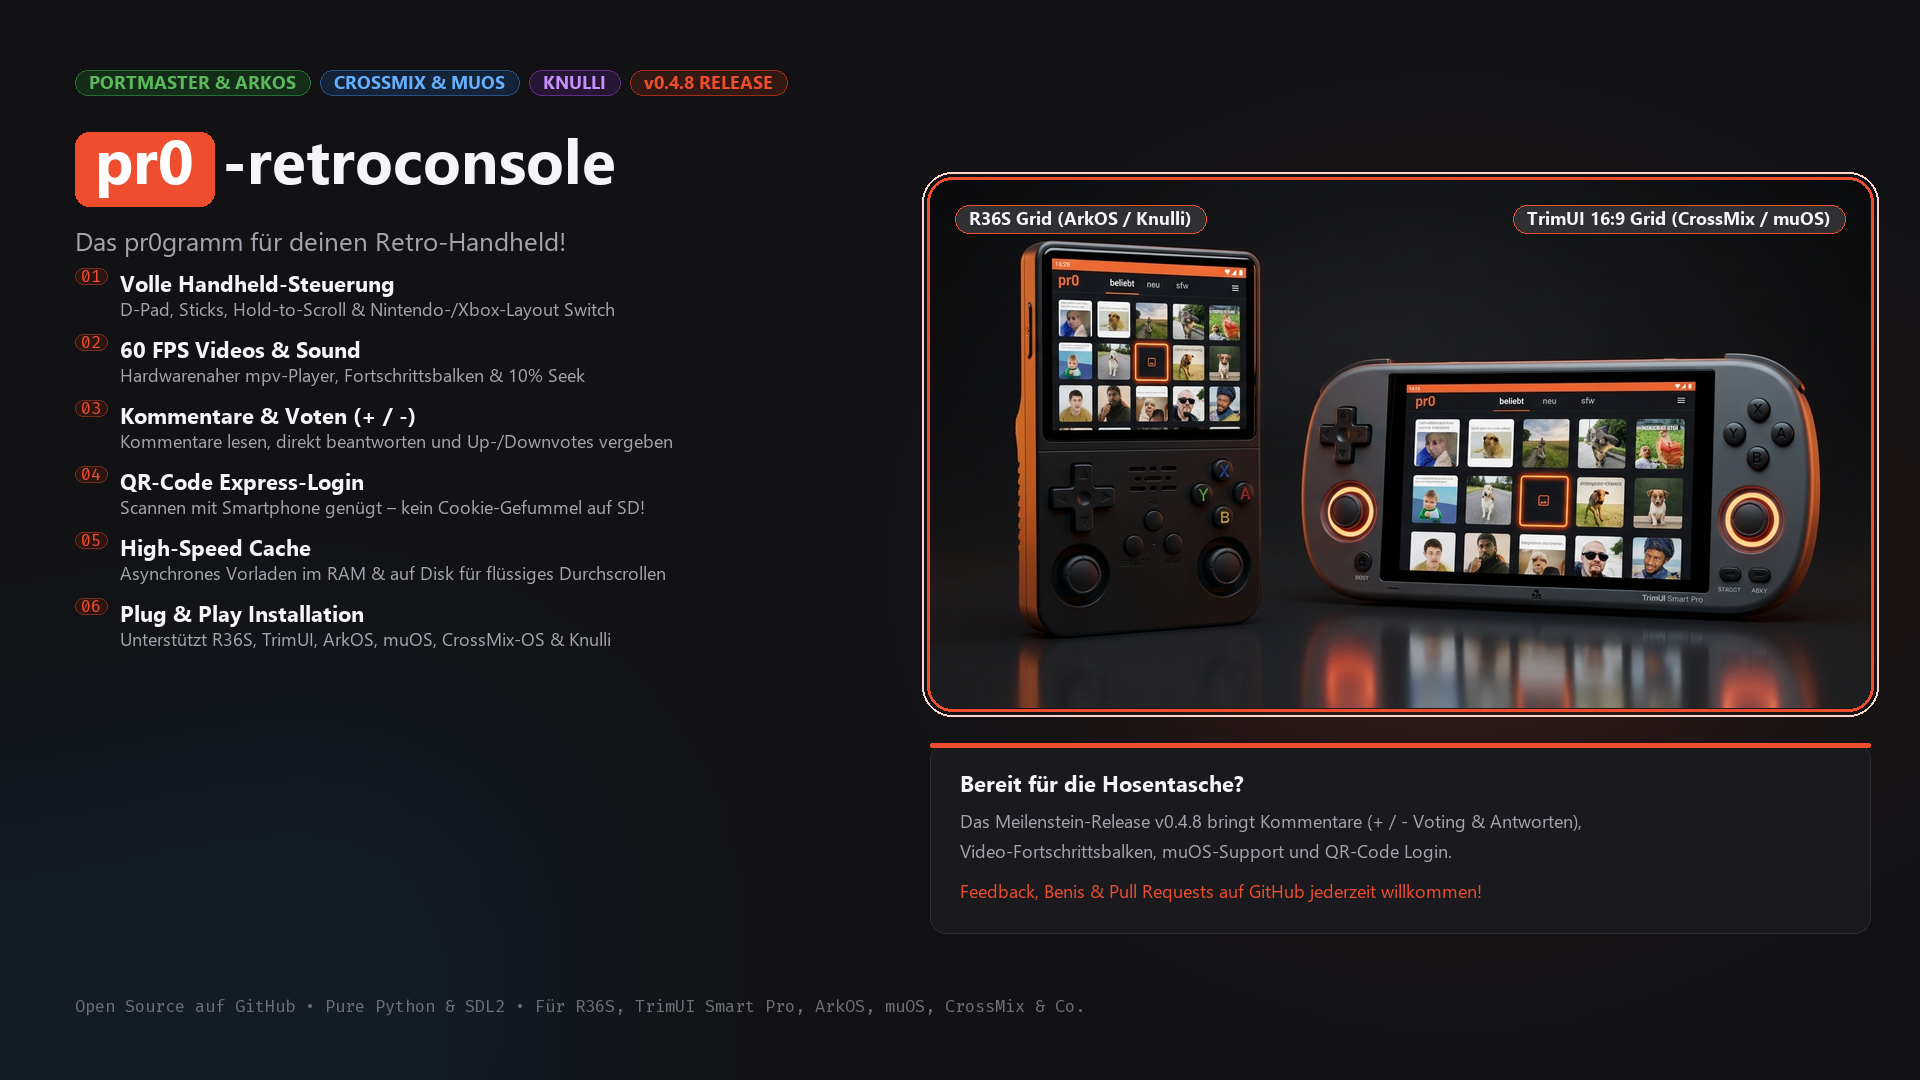
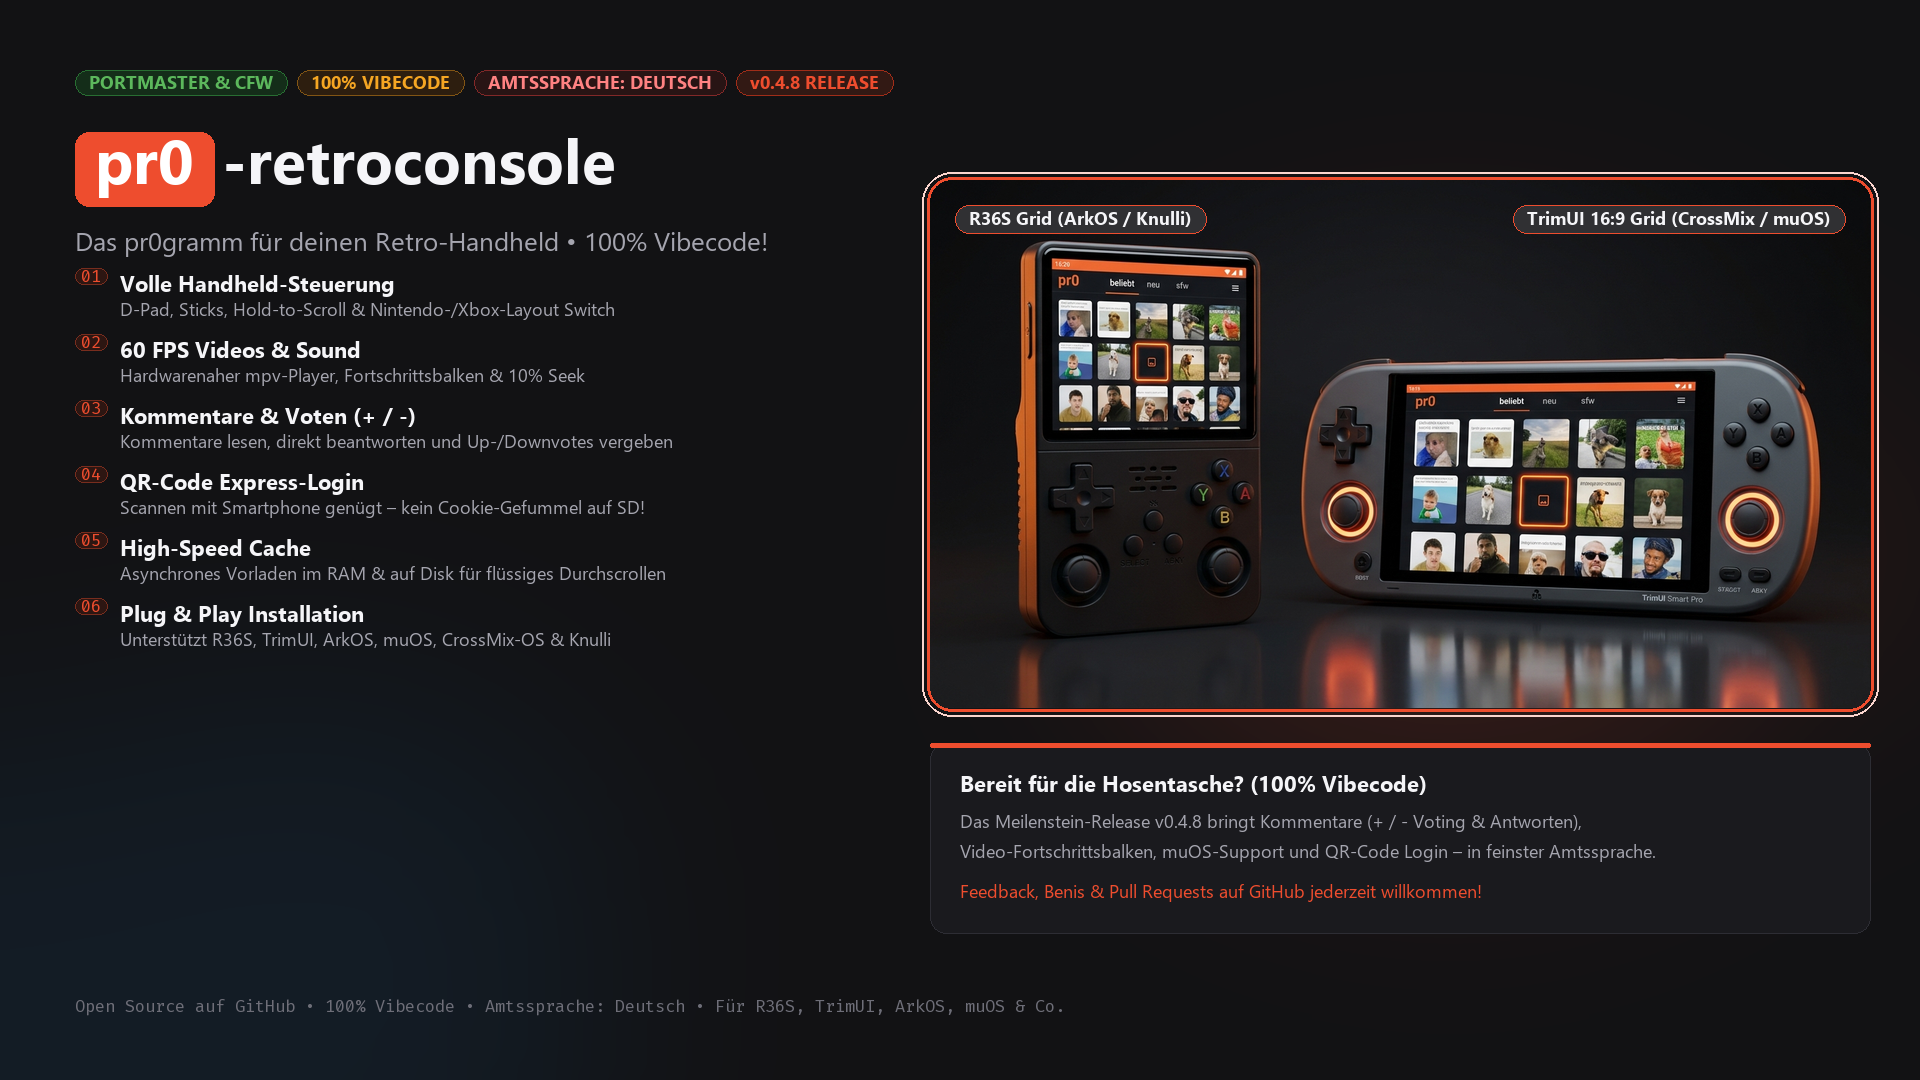
Highlight German as official language (Amtssprache) and 100% Vibecode across all project files and renderings

diff --git a/create_presentation_image.py b/create_presentation_image.py
@@ -138,12 +138,13 @@ def create_poster():
     # -------------------------------------------------------------
     curr_y = 50
 
-    # Badges (ArkOS, CrossMix-OS, muOS, Knulli, Release, Open Source)
+    # Badges (ArkOS, CrossMix-OS, muOS, Knulli, Vibecode, Amtssprache, Release)
     p1_w, p1_h = draw_pill(draw, 70, curr_y, "PORTMASTER & ARKOS", font_badge, (20, 45, 25, 255), COLOR_GREEN, (40, 110, 50, 255))
     p2_w, p2_h = draw_pill(draw, 70 + p1_w + 12, curr_y, "CROSSMIX & MUOS", font_badge, (20, 35, 55, 255), (100, 175, 255, 255), (40, 80, 130, 255))
     p3_w, p3_h = draw_pill(draw, 70 + p1_w + 12 + p2_w + 12, curr_y, "KNULLI", font_badge, (38, 22, 52, 255), (200, 145, 255, 255), (95, 45, 135, 255))
-    p4_w, p4_h = draw_pill(draw, 70 + p1_w + 12 + p2_w + 12 + p3_w + 12, curr_y, f"RELEASE v{VERSION}", font_badge, (50, 25, 20, 255), COLOR_ORANGE, COLOR_ORANGE_DARK)
-    draw_pill(draw, None, curr_y, "100% OPEN SOURCE", font_badge, (30, 30, 35, 255), COLOR_TEXT_GRAY, (60, 60, 70, 255), right_x=W - 70)
+    p4_w, p4_h = draw_pill(draw, 70 + p1_w + 12 + p2_w + 12 + p3_w + 12, curr_y, "100% VIBECODE", font_badge, (45, 30, 15, 255), (245, 166, 35, 255), (130, 85, 20, 255))
+    p5_w, p5_h = draw_pill(draw, 70 + p1_w + 12 + p2_w + 12 + p3_w + 12 + p4_w + 12, curr_y, f"RELEASE v{VERSION}", font_badge, (50, 25, 20, 255), COLOR_ORANGE, COLOR_ORANGE_DARK)
+    draw_pill(draw, None, curr_y, "AMTSSPRACHE: DEUTSCH", font_badge, (40, 20, 20, 255), (255, 130, 130, 255), (130, 40, 40, 255), right_x=W - 70)
 
     curr_y += 55
 
@@ -171,7 +172,7 @@ def create_poster():
 
     # Subtitle
     curr_y += box_h + 16
-    sub_text = "Die native pr0gramm-App für Handheld-Konsolen • R36S, TrimUI Smart Pro & Brick, ArkOS, muOS, CrossMix & Co."
+    sub_text = "Die native pr0gramm-App für Handheld-Konsolen • 100% Vibecode in Amtssprache • R36S, TrimUI, muOS, ArkOS & Co."
     draw.text((70, curr_y), sub_text, font=font_subtitle, fill=COLOR_TEXT_GRAY)
 
     curr_y += 48
@@ -339,8 +340,8 @@ def create_poster():
     # Orange highlight indicator on left
     draw.rounded_rectangle((70, footer_y, 76, footer_y + footer_h), radius=3, fill=COLOR_ORANGE)
 
-    draw.text((100, footer_y + 22), f"Open Source auf GitHub • PortMaster Release v{VERSION}", font=font_card_title, fill=COLOR_TEXT_WHITE)
-    draw.text((100, footer_y + 58), "Entwickelt für die Fliesentisch-Elite • Benis, Feedback & Pull Requests willkommen!", font=font_footer, fill=COLOR_TEXT_GRAY)
+    draw.text((100, footer_y + 22), f"Open Source auf GitHub • 100% Vibecode • PortMaster Release v{VERSION}", font=font_card_title, fill=COLOR_TEXT_WHITE)
+    draw.text((100, footer_y + 58), "Entwickelt für die Fliesentisch-Elite • Amtssprache Deutsch • Benis, Feedback & Pull Requests willkommen!", font=font_footer, fill=COLOR_TEXT_GRAY)
 
     draw_pill(draw, None, footer_y + 30, "JETZT TESTEN >>", font_badge, COLOR_ORANGE, (255, 255, 255, 255), pad_x=22, pad_y=12, right_x=W - 70 - 30)
 
@@ -373,9 +374,9 @@ def create_banner():
 
     # Left Column: Information (Width 850px)
     curr_y = 70
-    p1_w, p1_h = draw_pill(draw, 75, curr_y, "PORTMASTER & ARKOS", font_badge, (20, 45, 25, 255), COLOR_GREEN, (40, 110, 50, 255))
-    p2_w, p2_h = draw_pill(draw, 75 + p1_w + 10, curr_y, "CROSSMIX & MUOS", font_badge, (20, 35, 55, 255), (100, 175, 255, 255), (40, 80, 130, 255))
-    p3_w, p3_h = draw_pill(draw, 75 + p1_w + 10 + p2_w + 10, curr_y, "KNULLI", font_badge, (38, 22, 52, 255), (200, 145, 255, 255), (95, 45, 135, 255))
+    p1_w, p1_h = draw_pill(draw, 75, curr_y, "PORTMASTER & CFW", font_badge, (20, 45, 25, 255), COLOR_GREEN, (40, 110, 50, 255))
+    p2_w, p2_h = draw_pill(draw, 75 + p1_w + 10, curr_y, "100% VIBECODE", font_badge, (45, 30, 15, 255), (245, 166, 35, 255), (130, 85, 20, 255))
+    p3_w, p3_h = draw_pill(draw, 75 + p1_w + 10 + p2_w + 10, curr_y, "AMTSSPRACHE: DEUTSCH", font_badge, (40, 20, 20, 255), (255, 130, 130, 255), (130, 40, 40, 255))
     draw_pill(draw, 75 + p1_w + 10 + p2_w + 10 + p3_w + 10, curr_y, f"v{VERSION} RELEASE", font_badge, (50, 25, 20, 255), COLOR_ORANGE, COLOR_ORANGE_DARK)
 
     curr_y += 62
@@ -402,7 +403,7 @@ def create_banner():
     draw.text((rest_x, text_y), "-retroconsole", font=font_title, fill=COLOR_TEXT_WHITE)
 
     curr_y += box_h + 16
-    draw.text((75, curr_y), "Das pr0gramm für deinen Retro-Handheld!", font=font_sub, fill=COLOR_TEXT_GRAY)
+    draw.text((75, curr_y), "Das pr0gramm für deinen Retro-Handheld • 100% Vibecode!", font=font_sub, fill=COLOR_TEXT_GRAY)
 
     curr_y += 48
 
@@ -424,7 +425,7 @@ def create_banner():
 
     # Bottom Footer info
     footer_y = H - 85
-    draw.text((75, footer_y), "Open Source auf GitHub • Pure Python & SDL2 • Für R36S, TrimUI Smart Pro, ArkOS, muOS, CrossMix & Co.", 
+    draw.text((75, footer_y), "Open Source auf GitHub • 100% Vibecode • Amtssprache: Deutsch • Für R36S, TrimUI, ArkOS, muOS & Co.", 
               font=font_footer, fill=COLOR_TEXT_MUTED)
 
     # Right Column: 3D Render (Width 940px, Height 530px or larger)
@@ -455,9 +456,9 @@ def create_banner():
         draw.rounded_rectangle((rx, card_y, rx + card_w, card_y + card_h), radius=16, fill=COLOR_CARD_BG, outline=COLOR_CARD_BORDER, width=1)
         draw.rounded_rectangle((rx, card_y, rx + card_w, card_y + 4), radius=2, fill=COLOR_ORANGE)
 
-        draw.text((rx + 30, card_y + 25), "Bereit für die Hosentasche?", font=font_item_title, fill=COLOR_TEXT_WHITE)
+        draw.text((rx + 30, card_y + 25), "Bereit für die Hosentasche? (100% Vibecode)", font=font_item_title, fill=COLOR_TEXT_WHITE)
         draw.text((rx + 30, card_y + 65), f"Das Meilenstein-Release v{VERSION} bringt Kommentare (+ / - Voting & Antworten),", font=font_item_desc, fill=COLOR_TEXT_GRAY)
-        draw.text((rx + 30, card_y + 95), "Video-Fortschrittsbalken, muOS-Support und QR-Code Login.", font=font_item_desc, fill=COLOR_TEXT_GRAY)
+        draw.text((rx + 30, card_y + 95), "Video-Fortschrittsbalken, muOS-Support und QR-Code Login – in feinster Amtssprache.", font=font_item_desc, fill=COLOR_TEXT_GRAY)
         draw.text((rx + 30, card_y + 135), "Feedback, Benis & Pull Requests auf GitHub jederzeit willkommen!", font=font_item_desc, fill=COLOR_ORANGE)
 
     im.save(BANNER_PATH, "PNG", quality=95)

diff --git a/src/ui.py b/src/ui.py
@@ -1,5 +1,6 @@
 """Pygame UI Rendering for pr0-retroconsole.
 
+Sprache: Deutsch (pr0-Amtssprache) • Architektur: 100% zertifizierter Vibecode.
 Provides resolution-independent rendering for:
 1. Thumbnail Grid View with dynamic pagination
 2. Fullscreen Post View with 'Tapeten' vertical fit-to-width scrolling, video autoplay & culling
@@ -1251,7 +1252,7 @@ class UIRenderer:
         x += int(logo_w) + 12
         title_txt = "EINSTELLUNGEN & FARBEN"
         self.draw_text(self.screen, self.font_bold, title_txt, self.color_text, (x, 10))
-        ver_badge = f"v{VERSION}"
+        ver_badge = f"v{VERSION} • 100% Vibecode"
         vw = self.font_small.size(ver_badge)[0]
         self.draw_text(self.screen, self.font_small, ver_badge, self.color_accent, (self.width - vw - 14, 12))
 

diff --git a/src/main.py b/src/main.py
@@ -1,5 +1,6 @@
 """Entry Point and Main Loop for pr0-retroconsole.
 
+Sprache: Deutsch (pr0-Amtssprache) • Architektur: 100% zertifizierter Vibecode.
 Implements the application state-machine between Grid-View, Single-Post-View,
 and Comment-Tree Overlay with asynchronous API calls, caching, and SDL2 gamepad controls.
 """
@@ -1432,9 +1433,9 @@ class Pr0App:
             },
             {
                 "id": "version_info",
-                "label": "Version",
+                "label": "Version & Vibe",
                 "type": "info",
-                "display_value": f"v{VERSION}",
+                "display_value": f"v{VERSION} (100% Vibecode • Amtssprache)",
             },
             {
                 "id": "save_exit",

diff --git a/src/auth_server.py b/src/auth_server.py
@@ -1,5 +1,6 @@
 """Local Companion Web Server for Smartphone-assisted login on handhelds.
 
+Sprache: Deutsch (pr0-Amtssprache) • Architektur: 100% zertifizierter Vibecode.
 Runs a lightweight HTTP server on the local LAN. Allows users to open a
 mobile-optimized web page on their smartphone or PC in the same Wi-Fi,
 enter their pr0gramm credentials and solve the captcha on a touch screen.

diff --git a/src/cache.py b/src/cache.py
@@ -1,5 +1,6 @@
 """Asynchronous Image and Thumbnail Downloader with RAM-disk support for pr0-retroconsole.
 
+Sprache: Deutsch (pr0-Amtssprache) • Architektur: 100% zertifizierter Vibecode.
 Downloads media files in background threads without blocking the main Pygame render loop.
 Maintains a clean disk cache (max 100 files) and provides in-memory Pygame surfaces.
 """

diff --git a/src/input.py b/src/input.py
@@ -1,5 +1,6 @@
 """SDL2 Gamepad and Keyboard Input Handling for pr0-retroconsole.
 
+Sprache: Deutsch (pr0-Amtssprache) • Architektur: 100% zertifizierter Vibecode.
 Provides unified action dispatch for both native SDL2 game controllers
 and desktop/gptokeyb keyboard inputs with:
 1. Configurable button layouts: Nintendo (TrimUI / ArkOS) vs. Xbox (PC / muOS)

diff --git a/src/video.py b/src/video.py
@@ -1,5 +1,6 @@
 """Cross-platform Video Playback for pr0-retroconsole.
 
+Sprache: Deutsch (pr0-Amtssprache) • Architektur: 100% zertifizierter Vibecode.
 Supports:
 1. Inline Video Playback directly inside Pygame Post-View using ffmpeg frame streaming.
 2. External Fullscreen / Windowed Playback using mpv, ffplay, or VLC with clean SDL2 transitions.

diff --git a/src/version.py b/src/version.py
@@ -1,5 +1,8 @@
 """Application Version for pr0-retroconsole.
 
+Dokumentiert und gepflegt in der einzig wahren Amtssprache (Deutsch).
+Dieses Projekt ist zu 100% zertifizierter, handgewebter Vibecode.
+
 Versioning rule: Increment patch versions as two digits (x.y.01 -> x.y.02),
 unless major (x.) or minor (y.) increment is explicitly requested.
 """

diff --git a/build_release.py b/build_release.py
@@ -1,5 +1,6 @@
 """Cross-platform Release Packaging Script for pr0-retroconsole.
 Works identically on Windows, Linux, and GitHub Actions CI.
+Sprache: Deutsch (pr0-Amtssprache) • Architektur: 100% zertifizierter Vibecode.
 
 Produces PortMaster-compliant release ZIPs:
   - pr0-retroconsole-v{VERSION}.zip

diff --git a/src/keyboard.py b/src/keyboard.py
@@ -1,5 +1,6 @@
 """Virtual On-Screen Keyboard for handheld gamepads.
 
+Sprache: Deutsch (pr0-Amtssprache) • Architektur: 100% zertifizierter Vibecode.
 Allows entering text (usernames, passwords, captcha codes) with D-Pad
 navigation, A/B/X/Y button shortcuts, and optional physical keyboard input.
 """

diff --git a/src/qr_helper.py b/src/qr_helper.py
@@ -1,5 +1,6 @@
 """QR Code Generator utility for pr0-retroconsole.
 
+Sprache: Deutsch (pr0-Amtssprache) • Architektur: 100% zertifizierter Vibecode.
 Generates high-contrast Pygame surfaces for display on handheld screens.
 Uses pure-Python qrcodegen with zero external dependencies.
 """

diff --git a/src/api.py b/src/api.py
@@ -1,5 +1,6 @@
 """pr0gramm REST API Client for pr0-retroconsole.
 
+Sprache: Deutsch (pr0-Amtssprache) • Architektur: 100% zertifizierter Vibecode.
 Handles fetching items, post details, comment trees, tags, voting,
 and cookie authentication with automatic nonce extraction.
 """
